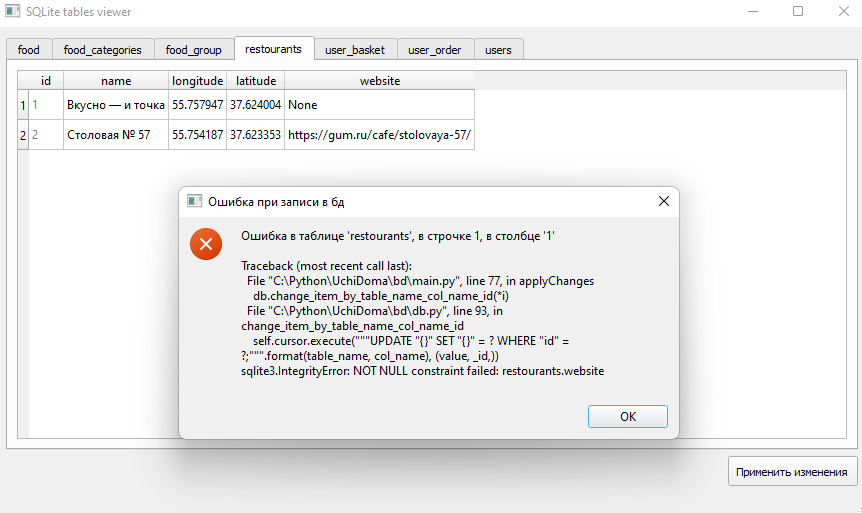
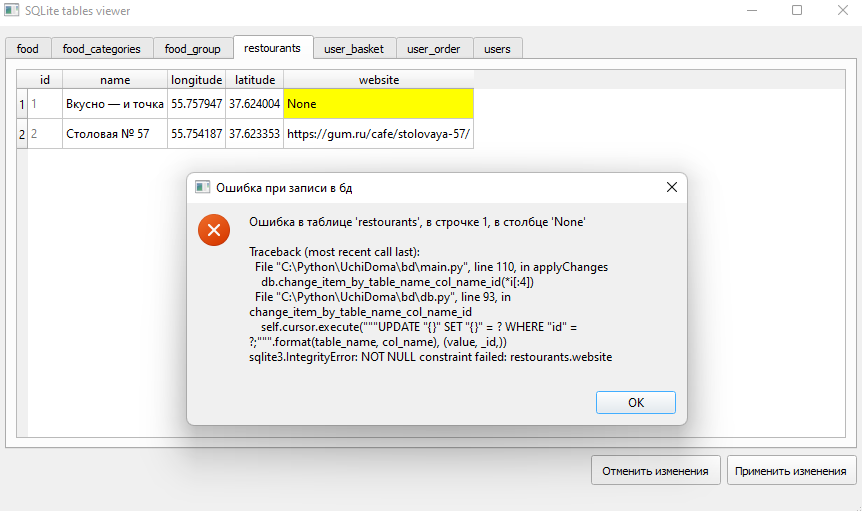
Add files via upload

diff --git a/bd/db.py b/bd/db.py
@@ -20,49 +20,49 @@ class Database:
 				pass
 		self.connection = sqlite3.connect(db_file, check_same_thread=False)
 		self.cursor = self.connection.cursor()
-		with self.connection:
-			self.cursor.execute("""CREATE TABLE IF NOT EXISTS food (
-									    id                INTEGER PRIMARY KEY AUTOINCREMENT,
-									    restourant_id     INTEGER NOT NULL,
-									    food_categorie_id INTEGER NOT NULL,
-									    name              VARCHAR NOT NULL,
-									    price             NUMERIC NOT NULL);""")
-			self.cursor.execute("""CREATE TABLE IF NOT EXISTS food_categories (
-									    id   INTEGER PRIMARY KEY AUTOINCREMENT,
-									    name VARCHAR NOT NULL);""")
-			self.cursor.execute("""CREATE TABLE IF NOT EXISTS food_group (
-									    id       INTEGER PRIMARY KEY AUTOINCREMENT,
-									    order_id INTEGER NOT NULL,
-									    user_id  INTEGER NOT NULL,
-									    food_id  INTEGER NOT NULL,
-									    pieces   INTEGER NOT NULL
-									                     DEFAULT (1));""")
-			self.cursor.execute("""CREATE TABLE IF NOT EXISTS restourants (
-									    id        INTEGER PRIMARY KEY AUTOINCREMENT,
-									    name      VARCHAR NOT NULL,
-									    longitude NUMERIC NOT NULL,
-									    latitude  NUMERIC NOT NULL,
-									    website   VARCHAR NOT NULL);""")
-			self.cursor.execute("""CREATE TABLE IF NOT EXISTS user_basket (
-									    id      INTEGER PRIMARY KEY AUTOINCREMENT,
-									    user_id INTEGER NOT NULL,
-									    food_id INTEGER NOT NULL,
-									    pieces  INTEGER NOT NULL
-									                    DEFAULT (1));""")
-			self.cursor.execute("""CREATE TABLE IF NOT EXISTS user_order (
-									    id             INTEGER  PRIMARY KEY AUTOINCREMENT,
-									    order_datetime DATETIME NOT NULL,
-									    user_id        INTEGER  NOT NULL,
-									    restourant_id  INTEGER  NOT NULL,
-									    longitude      NUMERIC  NOT NULL,
-									    latitude       NUMERIC  NOT NULL);""")
-			self.cursor.execute("""CREATE TABLE IF NOT EXISTS users (
-									    id         INTEGER PRIMARY KEY AUTOINCREMENT,
-									    first_name VARCHAR NOT NULL,
-									    last_name  VARCHAR NOT NULL,
-									    birthday   DATE,
-									    phone      VARCHAR NOT NULL,
-									    email      VARCHAR);""")
+		# with self.connection:
+		# 	self.cursor.execute("""CREATE TABLE IF NOT EXISTS food (
+		# 							    id                INTEGER PRIMARY KEY AUTOINCREMENT,
+		# 							    restourant_id     INTEGER NOT NULL,
+		# 							    food_categorie_id INTEGER NOT NULL,
+		# 							    name              VARCHAR NOT NULL,
+		# 							    price             NUMERIC NOT NULL);""")
+		# 	self.cursor.execute("""CREATE TABLE IF NOT EXISTS food_categories (
+		# 							    id   INTEGER PRIMARY KEY AUTOINCREMENT,
+		# 							    name VARCHAR NOT NULL);""")
+		# 	self.cursor.execute("""CREATE TABLE IF NOT EXISTS food_group (
+		# 							    id       INTEGER PRIMARY KEY AUTOINCREMENT,
+		# 							    order_id INTEGER NOT NULL,
+		# 							    user_id  INTEGER NOT NULL,
+		# 							    food_id  INTEGER NOT NULL,
+		# 							    pieces   INTEGER NOT NULL
+		# 							                     DEFAULT (1));""")
+		# 	self.cursor.execute("""CREATE TABLE IF NOT EXISTS restourants (
+		# 							    id        INTEGER PRIMARY KEY AUTOINCREMENT,
+		# 							    name      VARCHAR NOT NULL,
+		# 							    longitude NUMERIC NOT NULL,
+		# 							    latitude  NUMERIC NOT NULL,
+		# 							    website   VARCHAR NOT NULL);""")
+		# 	self.cursor.execute("""CREATE TABLE IF NOT EXISTS user_basket (
+		# 							    id      INTEGER PRIMARY KEY AUTOINCREMENT,
+		# 							    user_id INTEGER NOT NULL,
+		# 							    food_id INTEGER NOT NULL,
+		# 							    pieces  INTEGER NOT NULL
+		# 							                    DEFAULT (1));""")
+		# 	self.cursor.execute("""CREATE TABLE IF NOT EXISTS user_order (
+		# 							    id             INTEGER  PRIMARY KEY AUTOINCREMENT,
+		# 							    order_datetime DATETIME NOT NULL,
+		# 							    user_id        INTEGER  NOT NULL,
+		# 							    restourant_id  INTEGER  NOT NULL,
+		# 							    longitude      NUMERIC  NOT NULL,
+		# 							    latitude       NUMERIC  NOT NULL);""")
+		# 	self.cursor.execute("""CREATE TABLE IF NOT EXISTS users (
+		# 							    id         INTEGER PRIMARY KEY AUTOINCREMENT,
+		# 							    first_name VARCHAR NOT NULL,
+		# 							    last_name  VARCHAR NOT NULL,
+		# 							    birthday   DATE,
+		# 							    phone      VARCHAR NOT NULL,
+		# 							    email      VARCHAR);""")
 
 	def get_all_tables_name(self):
 		"""
@@ -91,6 +91,16 @@ class Database:
 		"""
 		with self.connection:
 			self.cursor.execute("""UPDATE "{}" SET "{}" = ? WHERE "id" = ?;""".format(table_name, col_name), (value, _id,))
+
+	def get_value_by_table_name_col_name_id(self, table_name, col_name, _id):
+		"""
+		Получение значение ячейки по названию таблицы, названию столбца и id
+		"""
+		with self.connection:
+			ret = self.cursor.execute("""SELECT "{}" FROM "{}" WHERE "id" = ?;""".format(col_name, table_name), (_id,)).fetchone()
+			if ret is not None:
+				return ret[0]
+			return None
 
 	def get_food_by_restourant_id(self, restourant_id):
 		with self.connection:

diff --git a/bd/main.py b/bd/main.py
@@ -26,8 +26,15 @@ class Ui(QMainWindow, Ui_MainWindow):
 	def initUi(self):
 		self.setWindowTitle("SQLite tables viewer")
 
+		self.applyChangesButton.setEnabled(False)
+		self.cancelCangesButton.setEnabled(False)
+
 		self.tabWidget.clear()
-		for i, table_name in enumerate(db.get_all_tables_name()):
+		tables_name = db.get_all_tables_name()
+		if len(tables_name) == 0:
+			QtWidgets.QMessageBox.information(self, "Предупреждение", "В данной бд нет никаких созданных таблиц!")
+
+		for i, table_name in enumerate(tables_name):
 			tab = QtWidgets.QWidget()
 			tab.setObjectName(f"tab__{table_name}")
 			verticalLayout_2 = QtWidgets.QVBoxLayout(tab)
@@ -51,6 +58,7 @@ class Ui(QMainWindow, Ui_MainWindow):
 			verticalLayout_2.addWidget(tableWidget)
 			self.tabWidget.addTab(tab, table_name)
 
+		self.cancelCangesButton.clicked.connect(self.cancelCanges)
 		self.applyChangesButton.clicked.connect(self.applyChanges)
 
 	def cellChanged(self, row, column):
@@ -63,25 +71,52 @@ class Ui(QMainWindow, Ui_MainWindow):
 		changes = list()
 		_id = tableWidget.item(row, 0).text()
 		for i in self.changes:
-			if not(i[0] == table_name and i[2] == _id):
+			if i[0] != table_name or i[2] != _id or i[1] != db.get_all_cols_by_table_name(table_name)[column]:
 				changes.append(i)
 		self.changes = changes
-		self.changes.append([table_name, db.get_all_cols_by_table_name(table_name)[column], _id, table_item])
-		print(f"New changes in {table_name}: {table_item}")
+
+		col_name = db.get_all_cols_by_table_name(table_name)[column]
+		if db.get_value_by_table_name_col_name_id(table_name, col_name, _id) != table_item:
+			self.changes.append([table_name, col_name, _id, table_item, (row, column)])
+			self.applyChangesButton.setEnabled(True)
+			self.cancelCangesButton.setEnabled(True)
+			print(f"New changes in {table_name}: {table_item}")
+
+		self.color_table(tableWidget)
+
+	def color_table(self, tableWidget, is_changed=True, cords=None):
+		if is_changed:
+			for i in self.changes:
+				if i[0] in tableWidget.objectName():
+					tableWidget.item(*i[4]).setBackground(QtGui.QColor(255, 255, 0))
+		else:
+			tableWidget.item(*cords).setBackground(QtGui.QColor(0, 0, 0, 0))
+
+	def cancelCanges(self):
+		for i in self.changes:
+			widget = self.findChild(QtWidgets.QTableWidget, f"tableWidget__{i[0]}")
+			widget.item(*i[4]).setText(db.get_value_by_table_name_col_name_id(i[0], i[1], i[2]))
+			self.color_table(widget, is_changed=False, cords=i[4])
+		self.changes = list()
+		self.applyChangesButton.setEnabled(False)
+		self.cancelCangesButton.setEnabled(False)
 
 	def applyChanges(self):
 		print("Applying changes...")
 		is_ok = True
+
 		for i in self.changes:
 			try:
-				db.change_item_by_table_name_col_name_id(*i)
+				db.change_item_by_table_name_col_name_id(*i[:4])
+				widget = self.findChild(QtWidgets.QTableWidget, f"tableWidget__{i[0]}")
+				self.color_table(widget, is_changed=False, cords=i[4])
 			except Exception as e:
-				if not is_ok:
-					continue
-				print(i)
-				QtWidgets.QMessageBox.critical(self, "Ошибка при записи в бд", f"Ошибка в таблице '{i[0]}', в строчке {i[2]}, в столбце '{i[2]}'\n\n{traceback.format_exc()}")
-				is_ok = False
-		if is_ok:
+				self.tabWidget.setCurrentIndex(db.get_all_tables_name().index(i[0]))
+				QtWidgets.QMessageBox.critical(self, "Ошибка при записи в бд", f"Ошибка в таблице '{i[0]}', в строчке {i[2]}, в столбце '{i[3]}'\n\n{traceback.format_exc()}")
+				break
+		else:
+			self.applyChangesButton.setEnabled(False)
+			self.cancelCangesButton.setEnabled(False)
 			QtWidgets.QMessageBox.information(self, "Инфо", "Все изменения были сохранены!")
 
 

diff --git a/bd/template.py b/bd/template.py
@@ -39,6 +39,10 @@ class Ui_MainWindow(object):
         self.horizontalLayout.setObjectName("horizontalLayout")
         spacerItem = QtWidgets.QSpacerItem(40, 20, QtWidgets.QSizePolicy.Expanding, QtWidgets.QSizePolicy.Minimum)
         self.horizontalLayout.addItem(spacerItem)
+        self.cancelCangesButton = QtWidgets.QPushButton(self.centralwidget)
+        self.cancelCangesButton.setMinimumSize(QtCore.QSize(130, 30))
+        self.cancelCangesButton.setObjectName("cancelCangesButton")
+        self.horizontalLayout.addWidget(self.cancelCangesButton)
         self.applyChangesButton = QtWidgets.QPushButton(self.centralwidget)
         self.applyChangesButton.setMinimumSize(QtCore.QSize(130, 30))
         self.applyChangesButton.setObjectName("applyChangesButton")
@@ -62,4 +66,5 @@ class Ui_MainWindow(object):
         MainWindow.setWindowTitle(_translate("MainWindow", "MainWindow"))
         self.tabWidget.setTabText(self.tabWidget.indexOf(self.tab), _translate("MainWindow", "Tab 1"))
         self.tabWidget.setTabText(self.tabWidget.indexOf(self.tab_2), _translate("MainWindow", "Tab 2"))
+        self.cancelCangesButton.setText(_translate("MainWindow", "Отменить изменения"))
         self.applyChangesButton.setText(_translate("MainWindow", "Применить изменения"))
